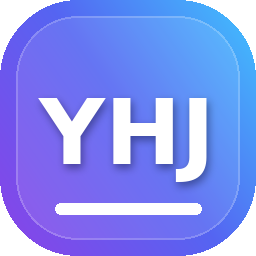
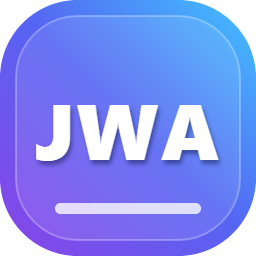
아이콘/아바타 명칭 변경: YHJ -> JWA

diff --git a/public/index.html b/public/index.html
@@ -34,7 +34,7 @@
 <button class="sidebar-tool submission-create-tool" id="submissionButton">제출용 HTML 생성</button>
 </div>
 <div class="sidebar-user">
-<div class="avatar">YH</div>
+<div class="avatar">JWA</div>
 <div><strong>관리자</strong><span>개인 사용 모드</span></div>
 <span class="online-dot" title="서버 연결 상태"></span>
 </div>
